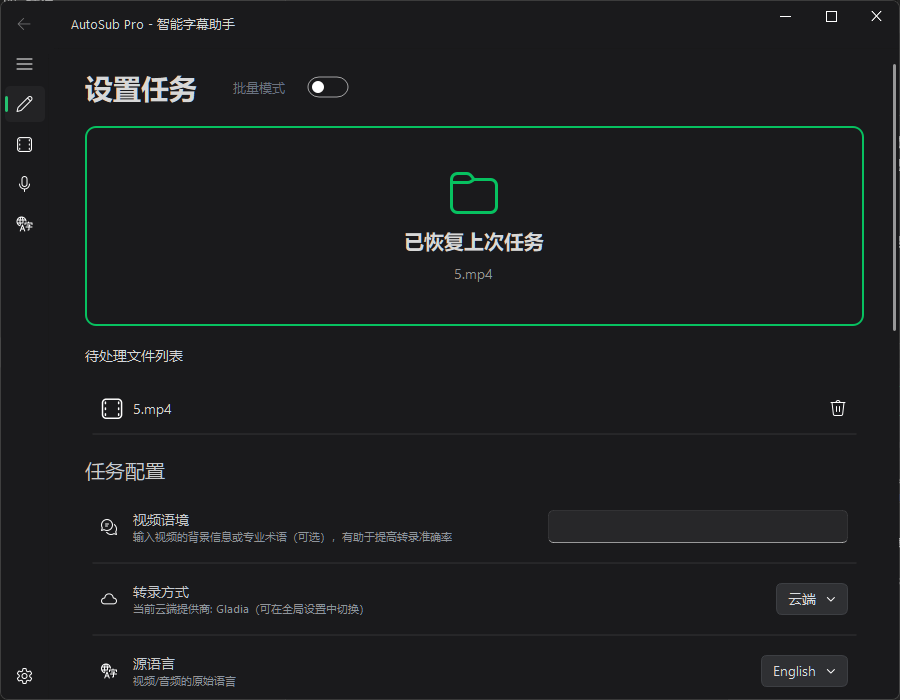
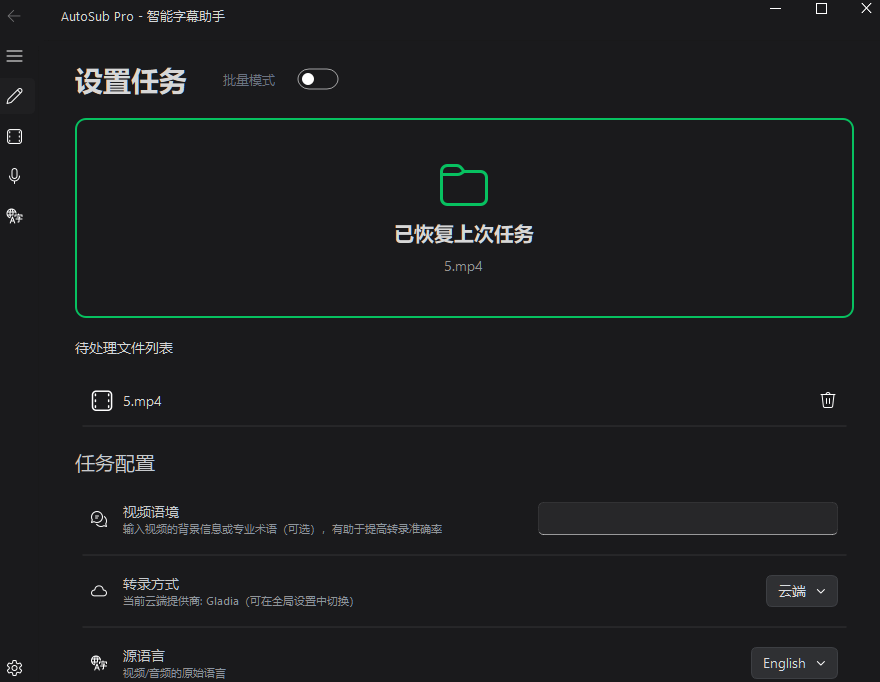
Improve README screenshots

diff --git a/README.zh-CN.md b/README.zh-CN.md
@@ -20,6 +20,8 @@ AutoSub Workflow 是一款面向短视频、体育剪辑、访谈和多语言内
 - **一站式导出**：导出 SRT、VTT、ASS、新闻稿和质量报告。
 - **实时捕获工作流**：支持系统音频捕获场景，方便直播、会议或长素材拆段处理。
 
+![AutoSub 实时字幕工作区](AutoSub/docs/screenshots/autosub-realtime.png)
+
 ![AutoSub 翻译与溢出修复界面](AutoSub/docs/screenshots/autosub-translate.png)
 
 ## 下载哪个版本

diff --git a/README.md b/README.md
@@ -20,6 +20,8 @@ Subtitle production often breaks across too many tools: one app for transcriptio
 - **Export-ready outputs** including SRT, VTT, ASS, production notes, reports, and logs.
 - **Realtime capture support** for system-audio capture scenarios.
 
+![AutoSub realtime subtitle workspace](AutoSub/docs/screenshots/autosub-realtime.png)
+
 ![AutoSub translation and overflow repair screen](AutoSub/docs/screenshots/autosub-translate.png)
 
 ## Releases
